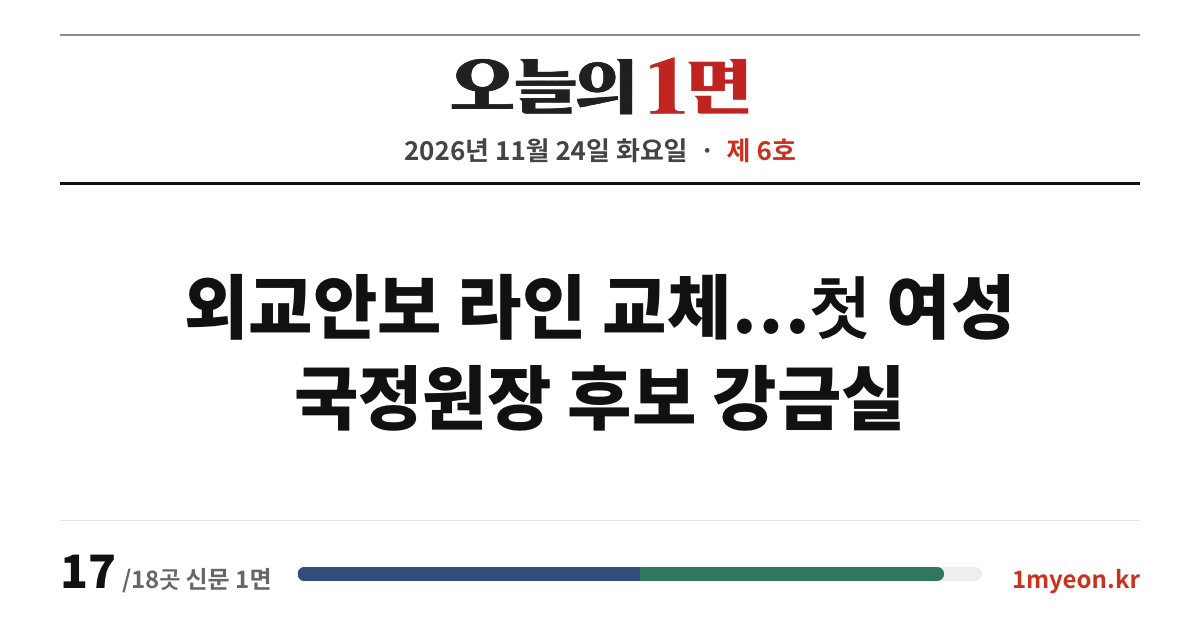
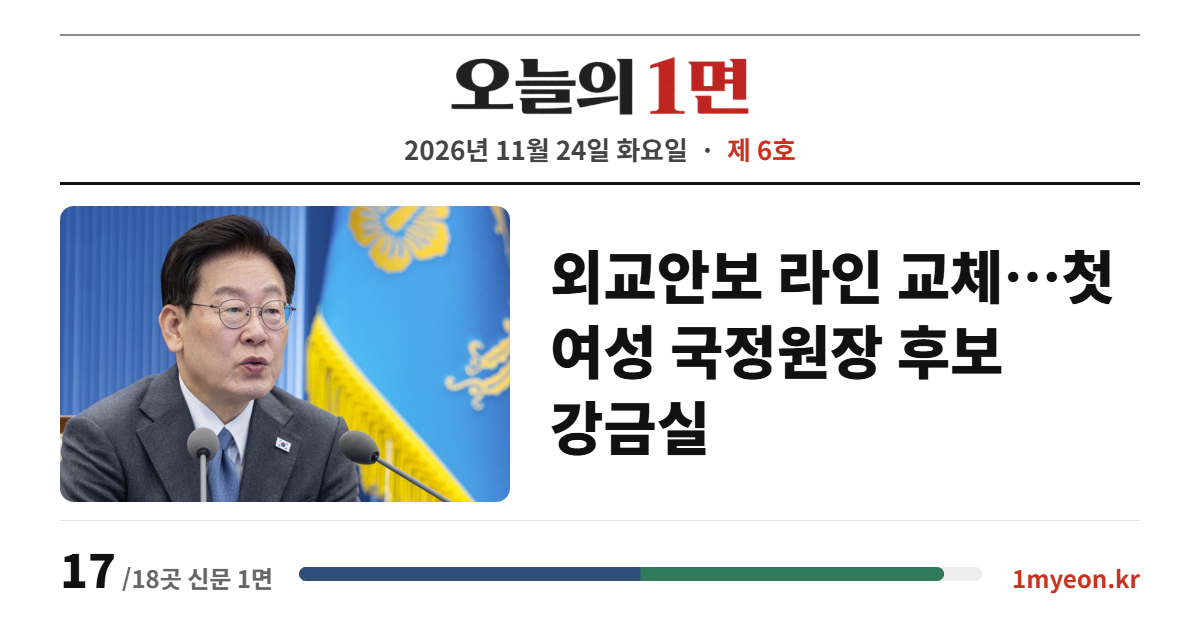
Share preview: daily card with article photo; home page share tags follow the latest day

diff --git a/news/write.html b/news/write.html
@@ -218,9 +218,27 @@ async function makeCard(d,story,no){
   x.font=`700 26px ${G}`; const sx=(W-x.measureText(left+right).width)/2;
   x.fillStyle='#444444'; x.fillText(left,sx,160); x.fillStyle='#C8321E'; x.fillText(right,sx+x.measureText(left).width,160);
   x.fillStyle='#111111'; x.fillRect(60,182,W-120,3);
+  // 참고 기사 사진(있으면 왼쪽에). 다른 사이트 사진은 그대로 못 써서 images.weserv.nl을 거쳐 불러와요
+  const imgUrl=((story.cards||[]).find(c=>c&&/^https:\/\//.test(c.image||''))||{}).image;
+  let photo=null;
+  if(imgUrl){ const im=new Image(); im.crossOrigin='anonymous';
+    const ok=await wait(new Promise(r=>{im.onload=()=>r(true); im.onerror=()=>r(false); im.src='https://images.weserv.nl/?url='+encodeURIComponent(imgUrl)+'&w=900&h=640&fit=cover&a=attention&output=jpg'}),10000);
+    if(ok===true&&im.naturalWidth) photo=im }
+  const top=196, bottom=512;
+  if(photo){
+    const PX=60,PY=top+10,PW=450,PH=bottom-top-20;
+    x.save(); x.beginPath(); if(x.roundRect) x.roundRect(PX,PY,PW,PH,14); else x.rect(PX,PY,PW,PH); x.clip();
+    const s=Math.max(PW/photo.naturalWidth,PH/photo.naturalHeight), iw=photo.naturalWidth*s, ih=photo.naturalHeight*s;
+    x.drawImage(photo,PX+(PW-iw)/2,PY+(PH-ih)/2,iw,ih); x.restore();
+    const TX=PX+PW+40, TW=W-60-TX;
+    let size=58, lines; for(;;){ x.font=`900 ${size}px ${G}`; lines=wrapLines(x,story.title,TW); if(lines.length<=4||size<=34) break; size-=4 }
+    lines=lines.slice(0,4); const lh=size*1.3; let ly=top+(bottom-top-lines.length*lh)/2+size*1.0;
+    x.fillStyle='#111111'; lines.forEach((l,i)=>x.fillText(l,TX,ly+i*lh));
+  } else {
   let size=70, lines; for(;;){ x.font=`900 ${size}px ${G}`; lines=wrapLines(x,story.title,W-160); if(lines.length<=3||size<=40) break; size-=4 }
-  lines=lines.slice(0,3); const lh=size*1.3, top=196, bottom=512; let ly=top+(bottom-top-lines.length*lh)/2+size*1.0;
+  lines=lines.slice(0,3); const lh=size*1.3; let ly=top+(bottom-top-lines.length*lh)/2+size*1.0;
   x.fillStyle='#111111'; x.textAlign='center'; lines.forEach((l,i)=>x.fillText(l,W/2,ly+i*lh)); x.textAlign='left';
+  }
   const n=story.papers.length, dn=story.papers.filter(p=>PAPERS.daily.includes(p)).length, en=n-dn;
   x.fillStyle='#E3E3E3'; x.fillRect(60,520,W-120,1);
   x.font=`900 46px ${G}`; x.fillStyle='#111111'; x.fillText(String(n),60,588); let bx=60+x.measureText(String(n)).width+6;
@@ -249,6 +267,19 @@ function sharePage(d,story){
 <script>location.replace('/?d=${d}')<\/script>
 </head><body><a href="/?d=${d}">오늘의 1면 보기</a></body></html>
 `;
+}
+
+// 1myeon.kr 주소만 공유해도 그날 카드가 뜨도록, 첫 화면(index.html)의 공유 정보(og 태그)를 그날 것으로 바꿔요
+async function homeOg(d,story){
+  let html;
+  if(LOCAL){ const r=await fetch('/index.html?nc='+Date.now()); if(!r.ok) throw new Error('local '+r.status); html=await r.text() }
+  else{ const g=await gh('index.html'); if(!g.ok) throw new Error('GitHub '+g.status); html=unb64((await g.json()).content) }
+  const [,m,dd]=d.split('-').map(Number), t=`${m}월 ${dd}일 신문 1면: ${story.title}`;
+  const desc=`18곳 중 ${story.papers.length}곳 1면` + (story.summary?` · ${story.summary}`:'');
+  const set=(prop,val)=>{ html=html.replace(new RegExp(`(<meta property="${prop}" content=")[^"]*(">)`),(_,a,b)=>a+escA(val)+b) };
+  set('og:title',t); set('og:description',desc); set('og:image:alt',t);
+  set('og:image',`https://1myeon.kr/d/${d}.png?v=${Date.now()}`);
+  await putFile('index.html', html, `첫 화면 공유 정보 ${d}`);
 }
 
 async function getIndex(){
@@ -283,6 +314,8 @@ $('#save').onclick=async()=>{
     m.textContent='카톡 미리보기 이미지 만드는 중...';
     try{ await putBin(`d/${d}.png`, await makeCard(d,story,[...idx.dates].sort().indexOf(d)+1), `1면 이미지 ${d}`) }catch(e){ console.warn('card',e) }
     try{ await putFile(`d/${d}.html`, sharePage(d,story), `1면 공유 ${d}`) }catch(e){ console.warn('share page',e) }
+    // 가장 최근 날짜를 올릴 때만 첫 화면 공유 정보를 바꿔요
+    if(d===[...idx.dates].sort().pop()){ try{ await homeOg(d,story) }catch(e){ console.warn('home og',e) } }
     m.className='msg ok'; m.textContent = LOCAL ? '저장했어요. 미리보기를 눌러 보세요.' : '올렸어요! 1~2분 뒤 사이트에 보여요.';
   }catch(e){ const c=e.message; err(/401/.test(c)?'저장 실패: 토큰이 틀렸거나 만료됐어요. 토큰을 다시 넣어 주세요.':/40[34]/.test(c)?'저장 실패: 토큰 권한이 부족해요. towardself 선택과 Contents: Read and write를 확인해 주세요.':'저장 실패 ('+c+'). 인터넷 연결을 확인하고 다시 눌러 주세요.') }
   $('#save').disabled=false;

diff --git a/index.html b/index.html
@@ -6,16 +6,16 @@
 <title>오늘의 1면 · 신문 1면 뉴스, 한눈에 보기</title>
 <meta name="description" content="중앙일간지 9곳과 경제지 9곳 1면에 가장 많이 실린 오늘의 뉴스 하나를 골라, 어려운 부분을 쉽게 풀어 드려요. 매일 아침 업데이트.">
 <link rel="canonical" href="https://1myeon.kr/">
-<meta property="og:title" content="오늘의 1면 · 오늘 신문 1면 뉴스, 한눈에 보기">
-<meta property="og:description" content="신문 18곳 1면에 가장 많이 실린 뉴스 하나, 1분 만에 이해하기">
+<meta property="og:title" content="11월 24일 신문 1면: 외교안보 라인 교체…첫 여성 국정원장 후보 강금실">
+<meta property="og:description" content="18곳 중 17곳 1면 · 이재명 대통령이 23일 국정원장 후보자에 강금실 전 법무부 장관을 지명하는 등 중폭 개각을 단행했다. 외교·통일·행안·문체부 장관 후보자로는 임웅순·홍익표·한준호·강유정이 발탁됐다. 강 후보자는 임명되면 첫 여성 국정원장이 된다.">
 <meta property="og:type" content="website">
 <meta property="og:url" content="https://1myeon.kr/">
 <meta property="og:site_name" content="오늘의 1면">
 <meta property="og:locale" content="ko_KR">
-<meta property="og:image" content="https://1myeon.kr/img/og-news.jpg?v=1">
+<meta property="og:image" content="https://1myeon.kr/d/2026-11-24.png?v=1795476330">
 <meta property="og:image:width" content="1200">
 <meta property="og:image:height" content="630">
-<meta property="og:image:alt" content="오늘의 1면 - 신문 1면에 가장 많이 실린 뉴스, 한눈에 보기">
+<meta property="og:image:alt" content="11월 24일 신문 1면: 외교안보 라인 교체…첫 여성 국정원장 후보 강금실">
 <meta name="twitter:card" content="summary_large_image">
 <link rel="icon" href="/news/icon.svg" type="image/svg+xml"><link rel="icon" href="/news/icon-48.png" sizes="48x48" type="image/png"><link rel="apple-touch-icon" href="/news/apple-touch-icon.png">
 <link rel="preconnect" href="https://fonts.googleapis.com"><link rel="preconnect" href="https://fonts.gstatic.com" crossorigin><link href="https://fonts.googleapis.com/css2?family=Nanum+Myeongjo:wght@400;700&family=Noto+Sans+KR:wght@500;700;900&display=swap" rel="stylesheet">

diff --git a/d/2026-11-24.html b/d/2026-11-24.html
@@ -7,7 +7,7 @@
 <meta property="og:title" content="11월 24일 신문 1면: 외교안보 라인 교체…첫 여성 국정원장 후보 강금실">
 <meta property="og:description" content="18곳 중 17곳 1면 · 이재명 대통령이 23일 국정원장 후보자에 강금실 전 법무부 장관을 지명하는 등 중폭 개각을 단행했다. 외교·통일·행안·문체부 장관 후보자로는 임웅순·홍익표·한준호·강유정이 발탁됐다. 강 후보자는 임명되면 첫 여성 국정원장이 된다.">
 <meta property="og:url" content="https://1myeon.kr/d/2026-11-24">
-<meta property="og:image" content="https://1myeon.kr/d/2026-11-24.png?v=1795472152743">
+<meta property="og:image" content="https://1myeon.kr/d/2026-11-24.png?v=1795476330">
 <meta property="og:image:width" content="1200"><meta property="og:image:height" content="630">
 <meta name="twitter:card" content="summary_large_image">
 <script>location.replace('/?d=2026-11-24')</script>
